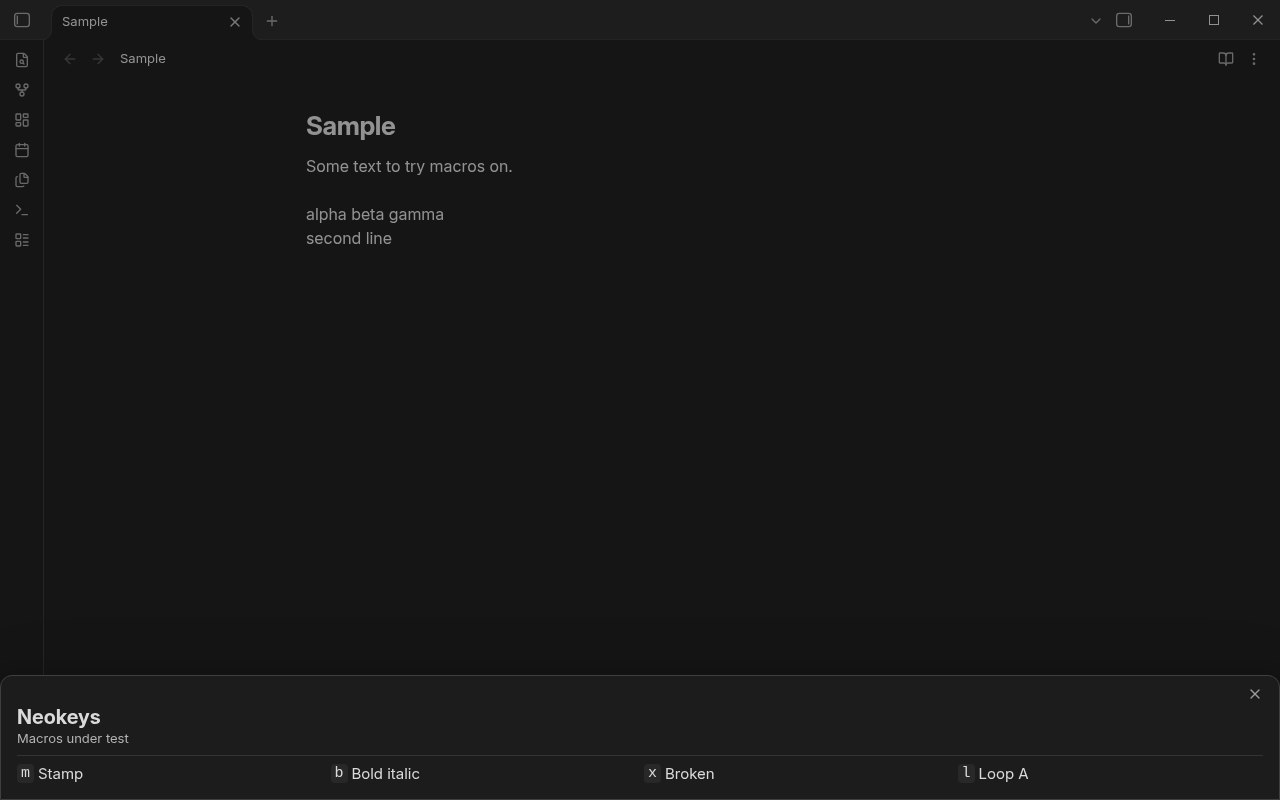
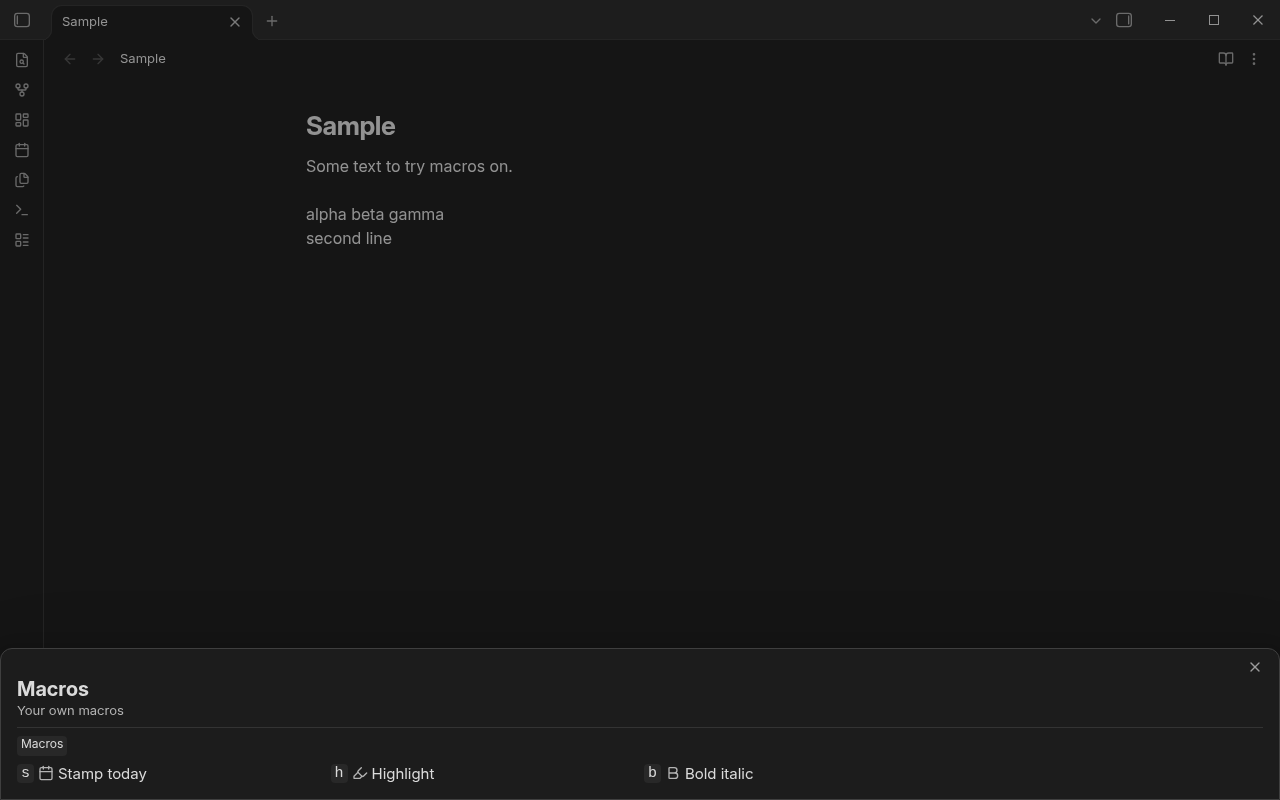
Say a text step needs a note open for editing, and use presentable README shots
A text step refuses both with no note open and with the note in
reading view, so its stop reason now reads "text needs a note open for
editing" rather than "text needs an open note", which was wrong for
reading view. The README says when each stop happens.

The popup and dial screenshots now show a Macros group with Stamp
today, Highlight and Bold italic instead of the test fixtures, and the
phone Add item shot is framed so Save and Cancel show whole.

Changed region(s): [[0.0, 0.8438, 0.0938, 1.0], [0.5, 0.9375, 0.5625, 1.0], [0.2812, 0.9375, 0.3125, 1.0]]

diff --git a/tests/macroRunner.test.ts b/tests/macroRunner.test.ts
@@ -84,7 +84,7 @@ describe("MacroRunner", () => {
 		const { runner, log, notices } = fakeHost([{ id: "a", name: "Stamp", steps: [cmd("app:go-back"), text("{{date}}"), cmd("app:go-back")] }], { noEditor: true });
 		expect(runner.run("a")).toBe("stopped");
 		expect(log).toEqual(["command app:go-back"]);
-		expect(notices).toEqual(['Neokeys: "Stamp" stopped at step 2 of 3: text needs an open note']);
+		expect(notices).toEqual(['Neokeys: "Stamp" stopped at step 2 of 3: text needs a note open for editing']);
 	});
 
 	it("runs a macro step's macro in place, and stops the outer one when the inner one stops", () => {

diff --git a/src/macros/runner.ts b/src/macros/runner.ts
@@ -129,7 +129,7 @@ export class MacroRunner {
 			}
 			if (step.type === "text") {
 				if (!this.host.insertText(step.text)) {
-					this.host.notify(macroStoppedMessage(macro.name, index + 1, total, "text needs an open note"));
+					this.host.notify(macroStoppedMessage(macro.name, index + 1, total, "text needs a note open for editing"));
 					return "stopped";
 				}
 				continue;

diff --git a/README.md b/README.md
@@ -294,9 +294,9 @@ keymap.
 
 ![Add item with kind Macro on a phone, dark theme](docs/screenshots/macros/phone-add-item-macro-dark.png)
 
-![The which-key popup listing macros by name, dark theme](docs/screenshots/macros/desktop-popup-macros-dark.png)
+![The which-key popup in a Macros group, listing the macros by name, dark theme](docs/screenshots/macros/desktop-popup-macros-dark.png)
 
-![The dial with a macro armed, its name in the pill, dark theme](docs/screenshots/macros/phone-dial-macro-dark.png)
+![The dial with the Stamp today macro armed in a Macros group, its name in the pill, dark theme](docs/screenshots/macros/phone-dial-macro-dark.png)
 
 When a macro can't run, a notice says why:
 
@@ -304,8 +304,9 @@ When a macro can't run, a notice says why:
   not exist (say its plugin is off), when it would run itself (`Loop A → Loop B → Loop A`), when a
   step is the Leader, or when a step was saved by a newer Neokeys than this device has.
 - **During a run**, a step that can't run at its turn stops the macro there, for example an editor
-  command or a text step with no note open: `"Bold italic" stopped at step 1 of 2: "Toggle bold"
-  can't run here`. The steps before it stay done.
+  command with no note open (`"Bold italic" stopped at step 1 of 2: "Toggle bold" can't run here`),
+  or a text step with no note open or the note in reading view (`text needs a note open for
+  editing`). The steps before it stay done.
 - **When you save**, the editor refuses a macro that would run itself, naming the loop.
 
 Macros can run other macros up to 8 deep, and one run takes at most 200 steps; past either limit
